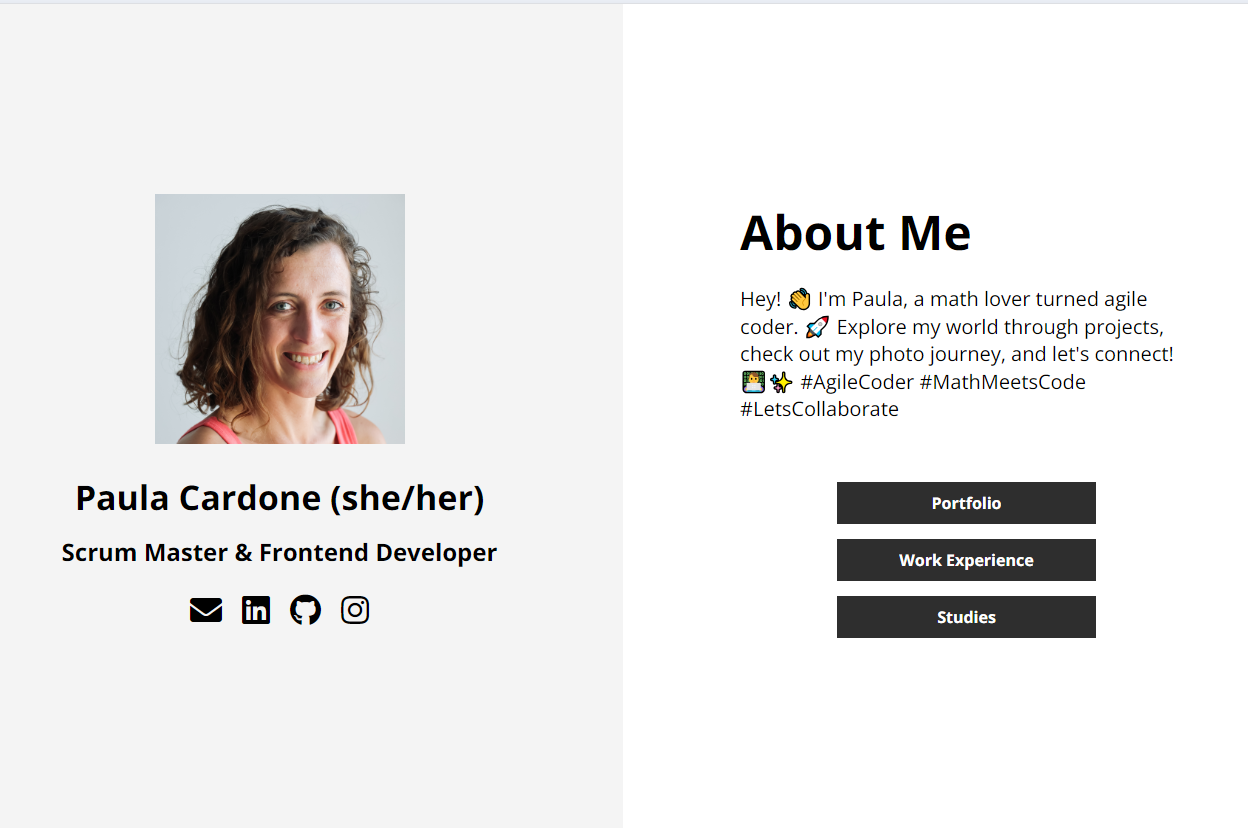
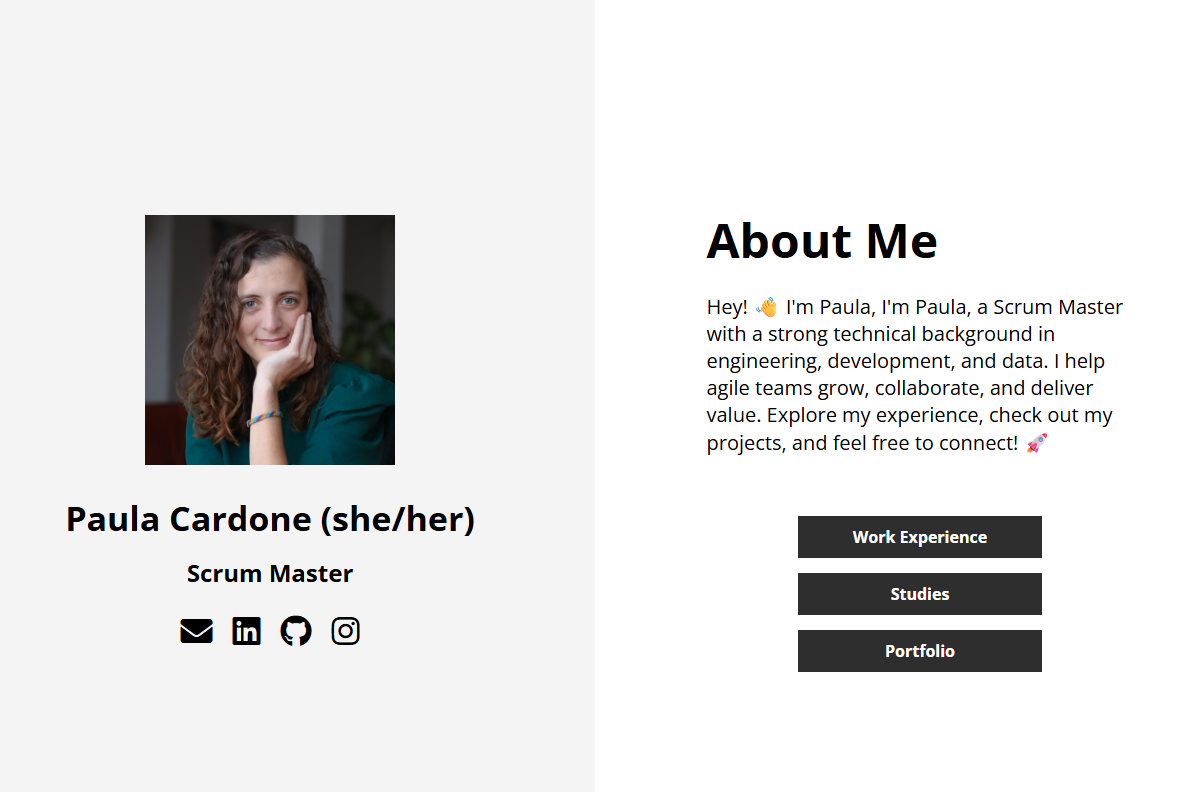
update about me

Changed region(s): [[0.5918, 0.2424, 0.9343, 0.8485], [0.0311, 0.2121, 0.4049, 0.8182]]

diff --git a/src/app/pages/main-page/main-page.component.html b/src/app/pages/main-page/main-page.component.html
@@ -1,12 +1,12 @@
 <div class="container">
   <div class="photo-container">
     <img
-      src="assets/images/profile-photo.png"
+      src="assets/images/profile2.jpg"
       alt="Profile Photo"
       class="profile-photo"
     />
     <h1>Paula Cardone (she/her)</h1>
-    <h2>Scrum Master & Frontend Developer</h2>
+    <h2>Scrum Master</h2>
     <div class="social-links">
       <a href="mailto:paulacardone16@gmail.com"
         ><i class="fas fa-envelope"></i
@@ -26,16 +26,15 @@
     <div class="about-me-content">
       <h1>About Me</h1>
       <p>
-        Hey! 👋 I'm Paula, a math lover turned agile coder. 🚀 Explore my world
-        through projects, check out my photo journey, and let's connect! 👨💻✨
-        #AgileCoder #MathMeetsCode #LetsCollaborate
+        Hey! 👋 I'm Paula, I'm Paula, a Scrum Master with a strong technical background in engineering, development, and data. 
+        I help agile teams grow, collaborate, and deliver value. Explore my experience, check out my projects, and feel free to connect! 🚀 
       </p>
     </div>
 
     <div class="buttons-container">
-      <button (click)="navigateTo('portfolio')">Portfolio</button>
       <button (click)="navigateTo('work-experience')">Work Experience</button>
       <button (click)="navigateTo('studies')">Studies</button>
+      <button (click)="navigateTo('portfolio')">Portfolio</button>
     </div>
   </div>
 </div>

diff --git a/src/environments/environment.ts b/src/environments/environment.ts
@@ -1,6 +1,7 @@
 export const environment = {
   production: false,
-  apiUrl: 'https://backend-portfolio-6fim.onrender.com',
+  // apiUrl: 'https://backend-portfolio-6fim.onrender.com',
+  apiUrl: 'http://localhost:3000',
   imageUrl: '/images',
   logoUrl: '/logos',
 };
